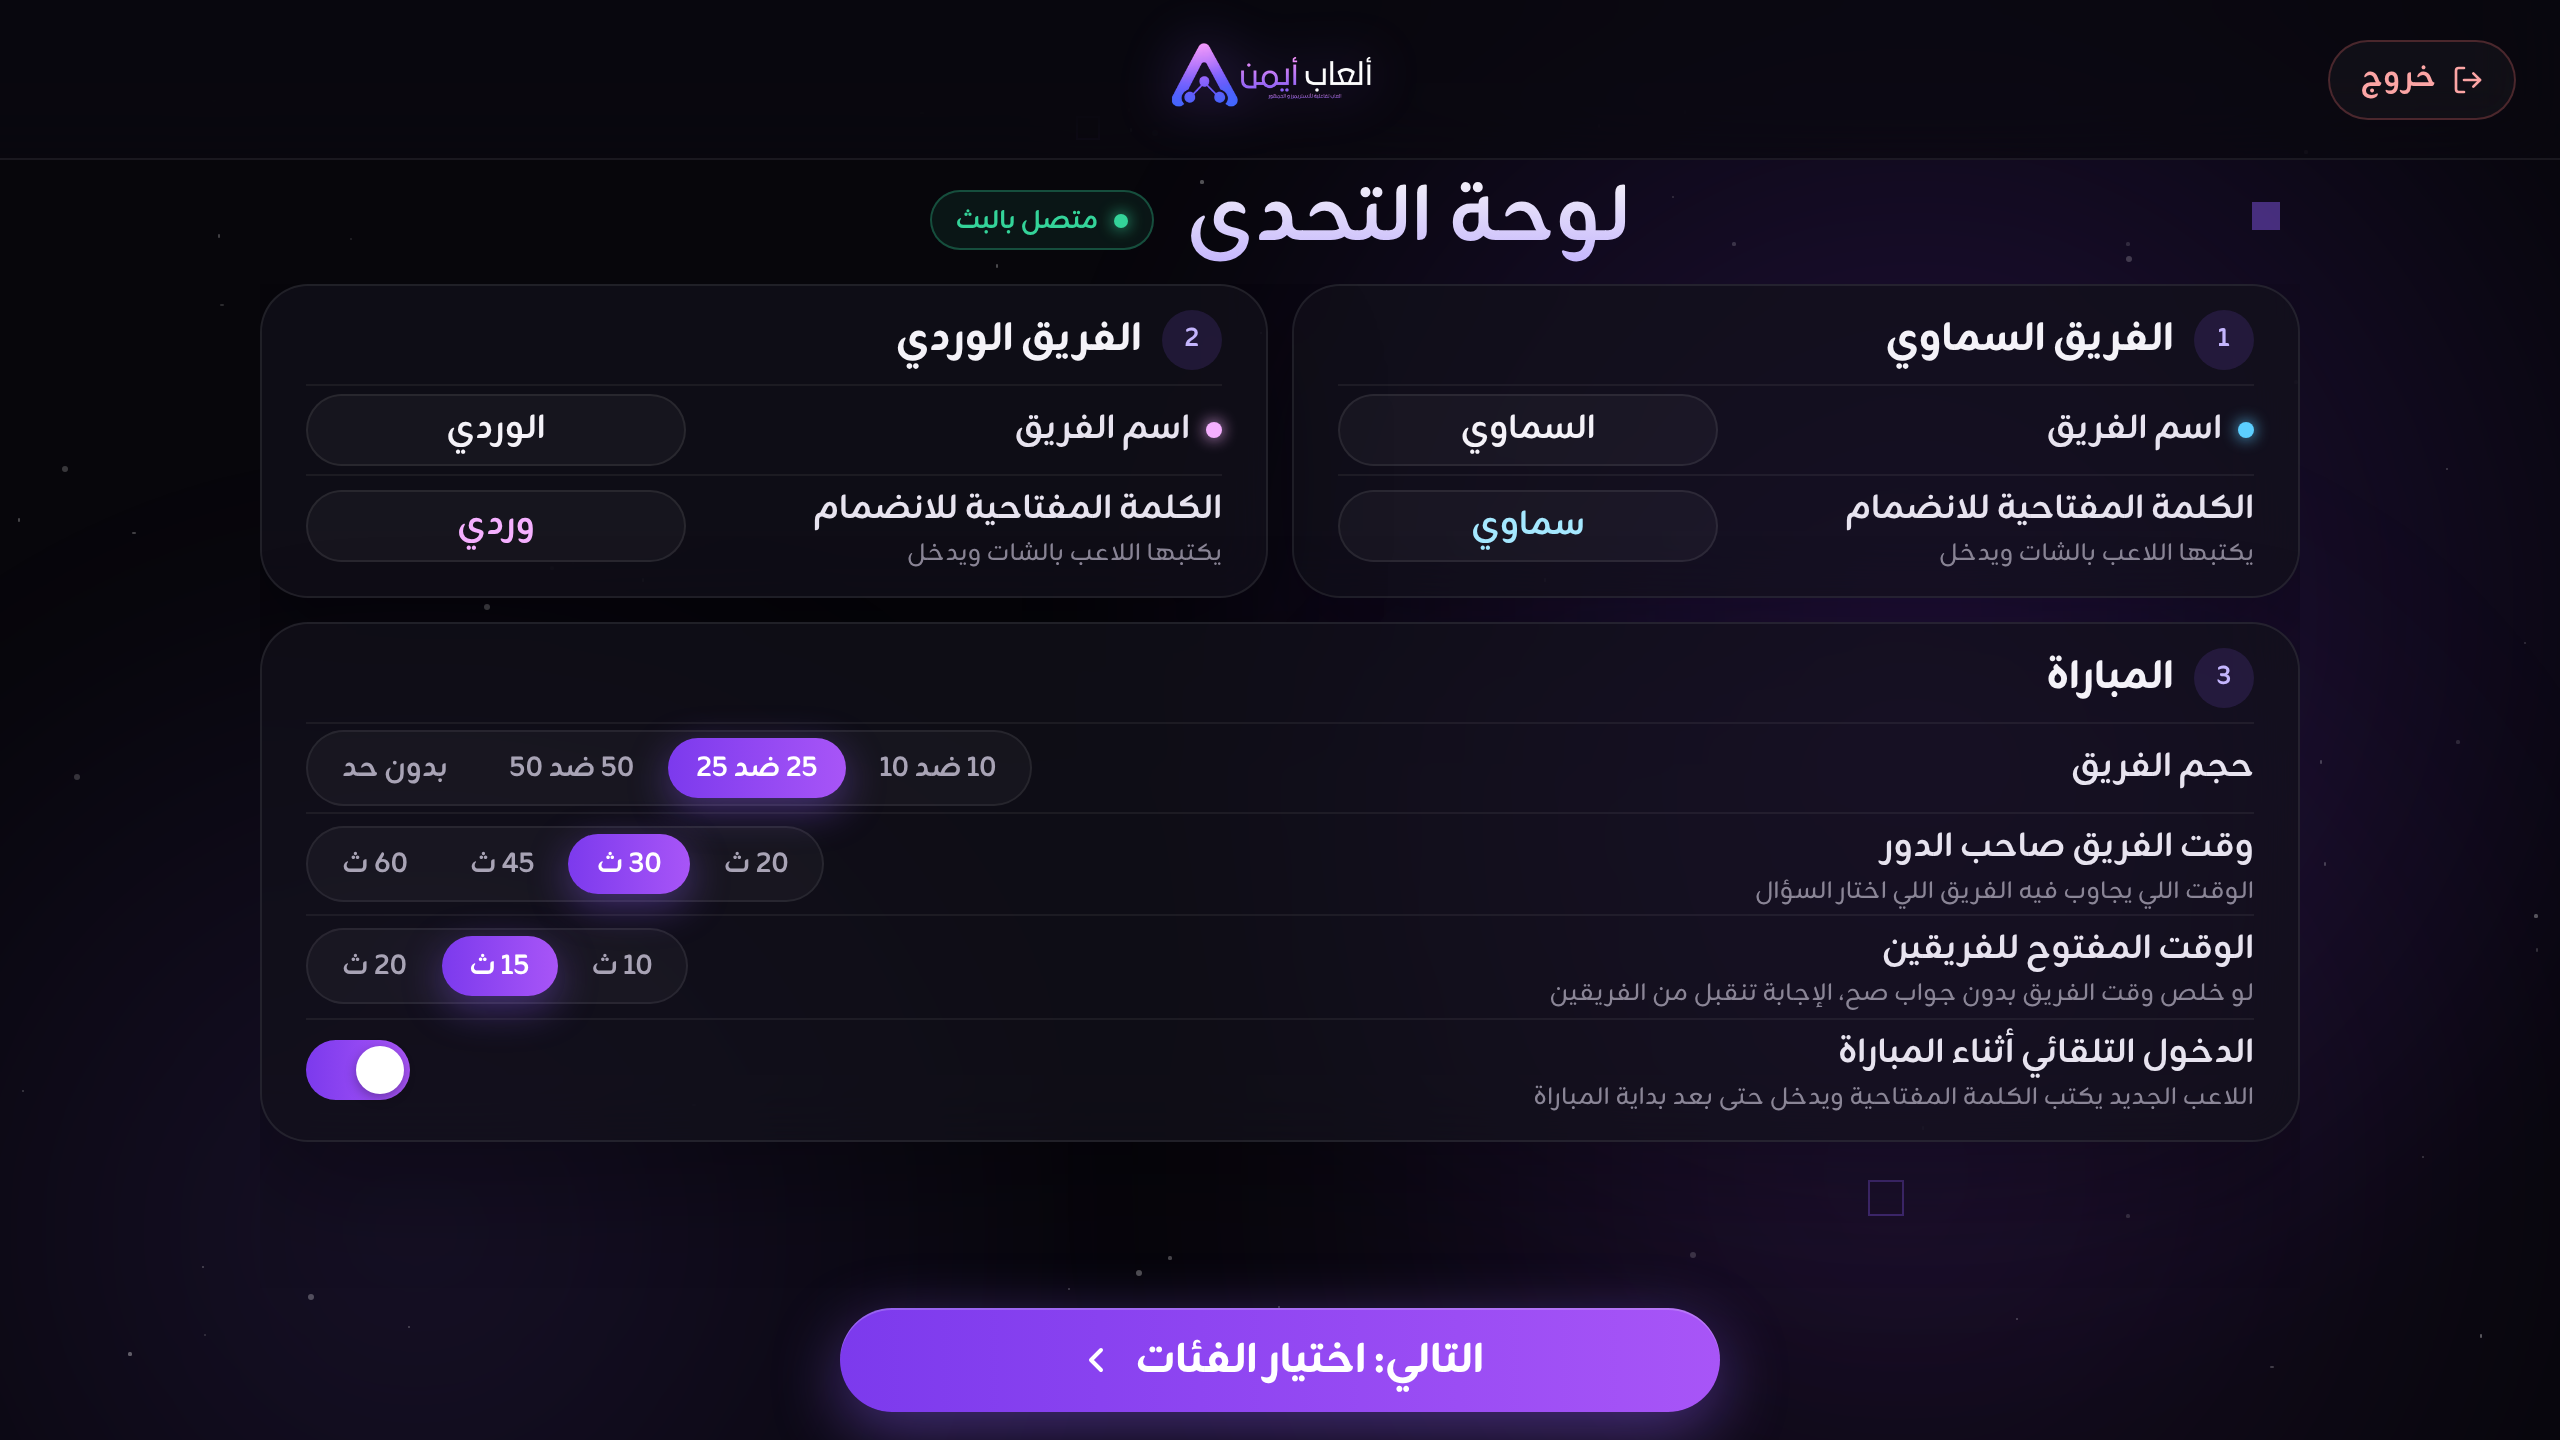
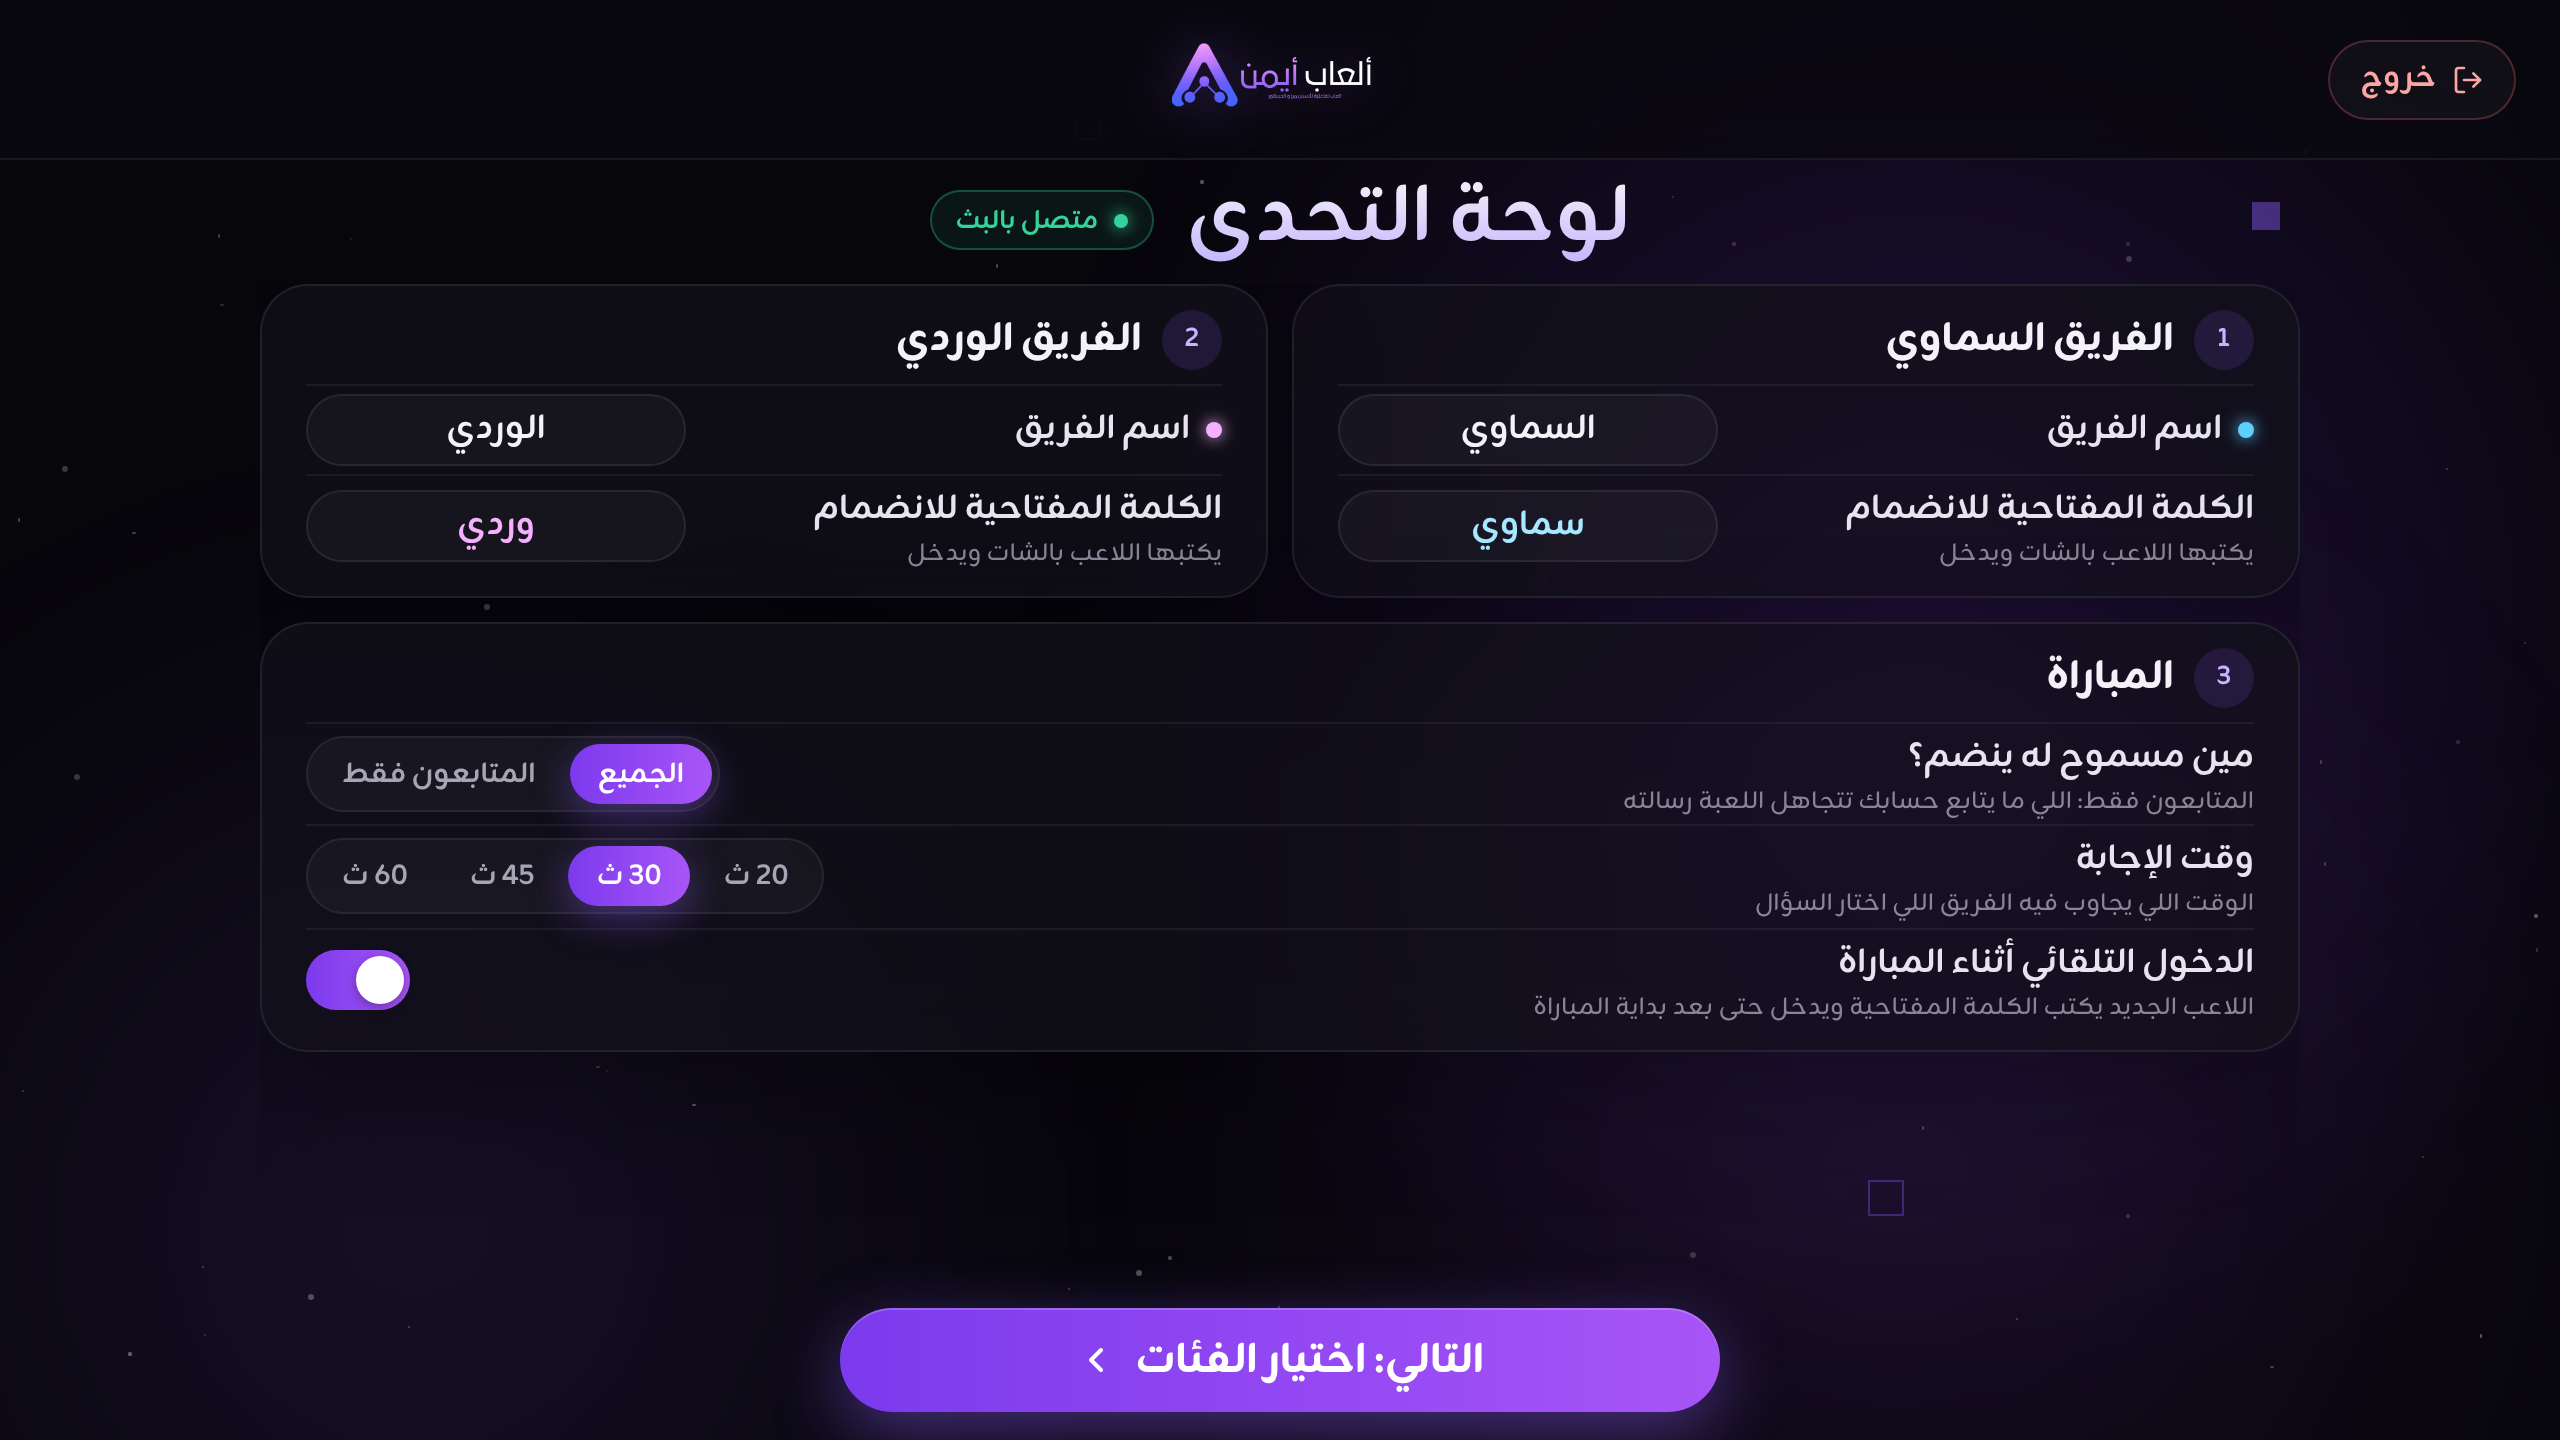
Simplify quiz board match settings: who can join, answer time, auto-join
Claude-Session: https://claude.ai/code/session_017nUDNWXwpKqksHnjugR7G8

Changed region(s): [[0.5938, 0.5, 0.875, 0.7812], [0.0938, 0.5, 0.375, 0.7812], [0.125, 0.5938, 0.1562, 0.625]]

diff --git a/mockups/quiz-board/settings-lobby.html b/mockups/quiz-board/settings-lobby.html
@@ -99,11 +99,9 @@ main{position:fixed;top:80px;left:0;right:0;bottom:0;display:flex;flex-direction
    <div class="row"><div class="lab"><div><b>الكلمة المفتاحية للانضمام</b><small>يكتبها اللاعب بالشات ويدخل</small></div></div><span class="inp" style="color:#f5b0ff">وردي</span></div>
   </div>
   <div class="sec full" style="animation-delay:.14s"><div class="sh"><span class="num">3</span><b>المباراة</b></div>
-   <div class="row"><div class="lab"><b>حجم الفريق</b></div><div class="seg"><span>10 ضد 10</span><span class="on">25 ضد 25</span><span>50 ضد 50</span><span>بدون حد</span></div></div>
+   <div class="row"><div class="lab"><div><b>مين مسموح له ينضم؟</b><small>المتابعون فقط: اللي ما يتابع حسابك تتجاهل اللعبة رسالته</small></div></div><div class="seg"><span class="on">الجميع</span><span>المتابعون فقط</span></div></div>
    <div class="dv"></div>
-   <div class="row"><div class="lab"><div><b>وقت الفريق صاحب الدور</b><small>الوقت اللي يجاوب فيه الفريق اللي اختار السؤال</small></div></div><div class="seg"><span>20 ث</span><span class="on">30 ث</span><span>45 ث</span><span>60 ث</span></div></div>
-   <div class="dv"></div>
-   <div class="row"><div class="lab"><div><b>الوقت المفتوح للفريقين</b><small>لو خلص وقت الفريق بدون جواب صح، الإجابة تنقبل من الفريقين</small></div></div><div class="seg"><span>10 ث</span><span class="on">15 ث</span><span>20 ث</span></div></div>
+   <div class="row"><div class="lab"><div><b>وقت الإجابة</b><small>الوقت اللي يجاوب فيه الفريق اللي اختار السؤال</small></div></div><div class="seg"><span>20 ث</span><span class="on">30 ث</span><span>45 ث</span><span>60 ث</span></div></div>
    <div class="dv"></div>
    <div class="row"><div class="lab"><div><b>الدخول التلقائي أثناء المباراة</b><small>اللاعب الجديد يكتب الكلمة المفتاحية ويدخل حتى بعد بداية المباراة</small></div></div><span class="tg"><i></i></span></div>
   </div>
@@ -115,11 +113,11 @@ main{position:fixed;top:80px;left:0;right:0;bottom:0;display:flex;flex-direction
  <div class="ttl" style="padding:6px 0 14px"><span class="sub">لوحة التحدي</span><span class="nm">لوبي الدخول</span></div>
  <div class="teams">
   <div class="tm" id="tA" style="--c:#5ccfff;--soft:rgba(92,207,255,.10);--bd:rgba(92,207,255,.35);--bs:rgba(92,207,255,.45);--halo:rgba(92,207,255,.16)"><span class="hal"></span>
-   <div class="th"><div class="tr"><span class="tn"><i></i>الفريق السماوي</span><span class="cnt"><b>9</b><span>/ 25</span></span></div>
+   <div class="th"><div class="tr"><span class="tn"><i></i>الفريق السماوي</span><span class="cnt"><b>9</b><span>لاعب</span></span></div>
     <span class="kwl">الكلمة المفتاحية · اكتبها في الشات للانضمام</span><span class="kw">سماوي</span></div>
    <div class="pl" id="plA"></div></div>
   <div class="tm" id="tB" style="--c:#f5b0ff;--soft:rgba(245,176,255,.10);--bd:rgba(245,176,255,.35);--bs:rgba(245,176,255,.45);--halo:rgba(245,176,255,.16)"><span class="hal"></span>
-   <div class="th"><div class="tr"><span class="tn"><i></i>الفريق الوردي</span><span class="cnt"><b>7</b><span>/ 25</span></span></div>
+   <div class="th"><div class="tr"><span class="tn"><i></i>الفريق الوردي</span><span class="cnt"><b>7</b><span>لاعب</span></span></div>
     <span class="kwl">الكلمة المفتاحية · اكتبها في الشات للانضمام</span><span class="kw">وردي</span></div>
    <div class="pl" id="plB"></div></div>
  </div>
